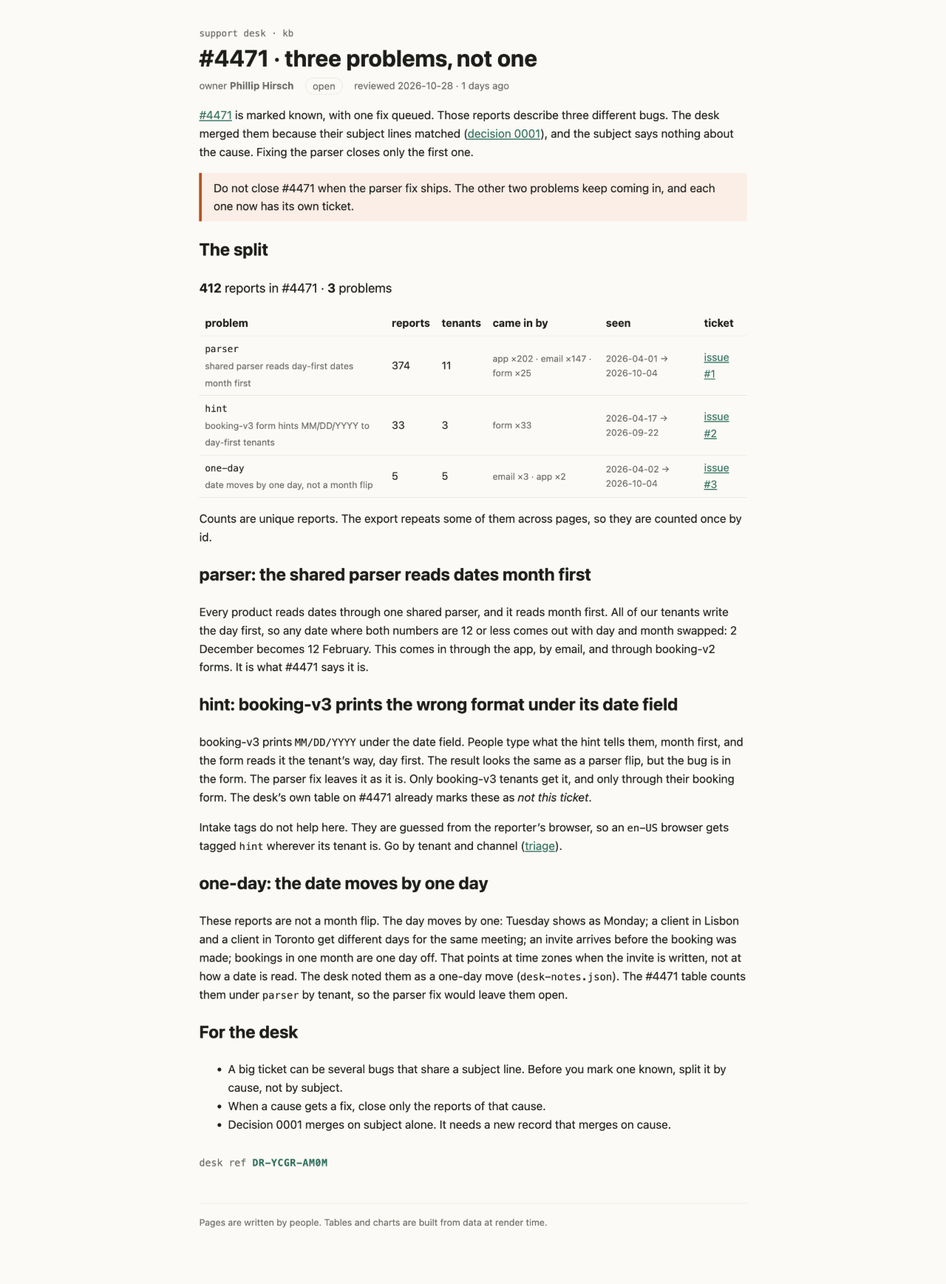
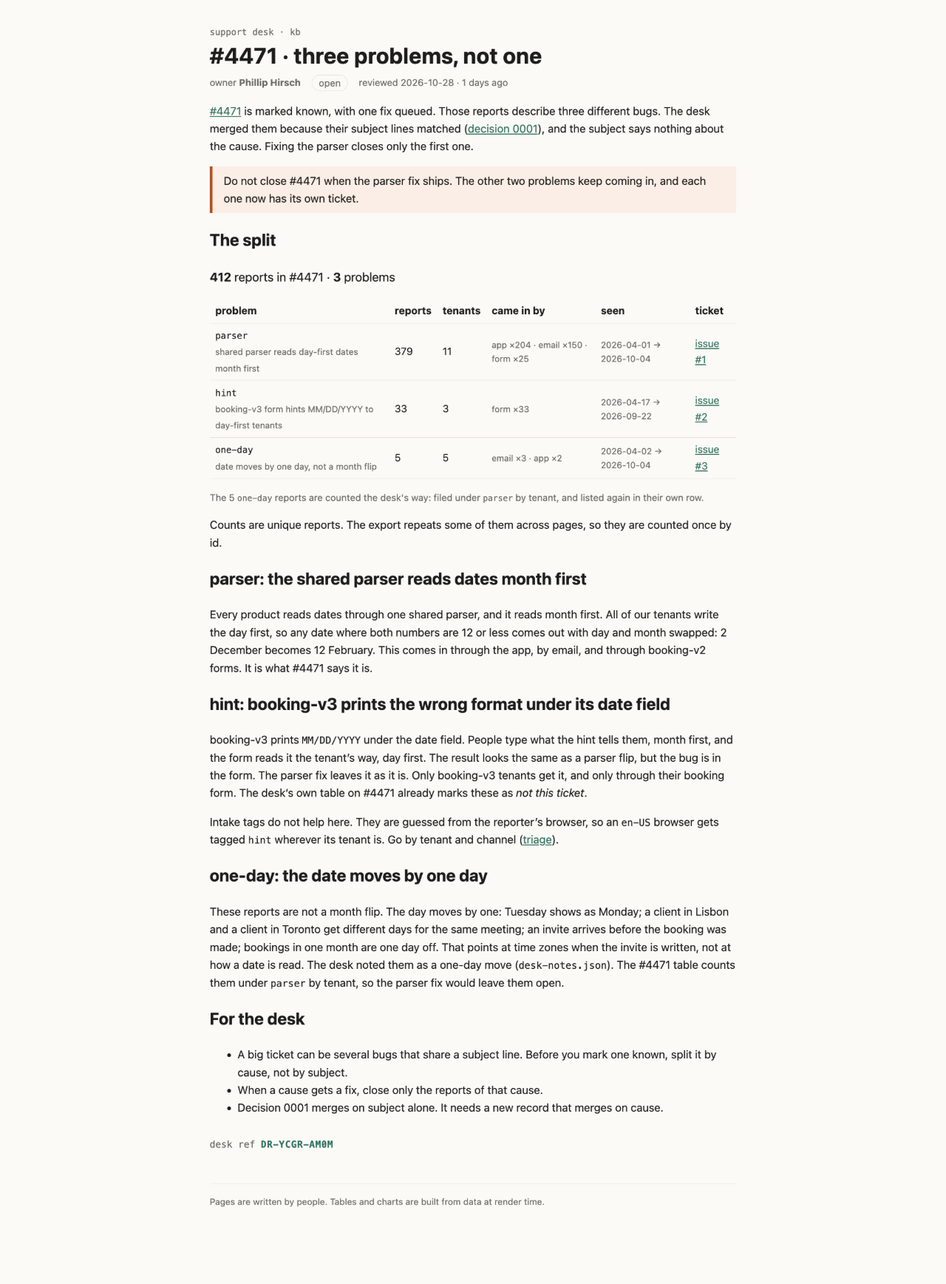
Count #4471 problems the desk's way: one-day reports stay filed under parser
Parser now shows 379 (as the desk's cause table files them), hint 33,
and the 5 one-day moves keep their own row and ticket.

diff --git a/build/_app/immutable/chunks/G0js2YUj.js b/build/_app/immutable/chunks/G0js2YUj.js
@@ -1,0 +1,19 @@
+import{t as e}from"./DK3Fl9T5.js";import{E as t,F as n,H as r,I as i,K as a,L as o,N as s,O as c,R as l,S as u,T as d,U as f,W as p,_ as m,c as h,h as g,k as _,n as v,q as y,r as b,t as x,w as S}from"./BCPXOG7W.js";import{t as C}from"./BTPwLomz.js";import{n as w,t as T}from"./CVBzP17p.js";import{i as E,l as D,r as O,t as k}from"./BIy4WKJS.js";var A={parser:`shared parser reads day-first dates month first`,hint:`booking-v3 form hints MM/DD/YYYY to day-first tenants`,"one-day":`date moves by one day, not a month flip`,unplaced:`no tenant on file, or tenant writes month first`};function j(e,t){let n=t.map(e=>e.receivedAt.slice(0,10)).sort();return{problem:e,reports:t,tenants:[...new Set(t.map(e=>e.tenant))].sort(),channels:t.reduce((e,t)=>({...e,[t.channel]:(e[t.channel]??0)+1}),{}),firstSeen:n[0],lastSeen:n[n.length-1]}}function M(e,t){return D(e).filter(e=>e.mergedInto===t)}function N(e,t,n,r){let i=M(e,t),a=new Map;for(let e of i){let t=E(e,n(e))??`unplaced`;a.set(t,[...a.get(t)??[],e])}let o=[...a.entries()].map(([e,t])=>j(e,t)),s=i.filter(e=>r.includes(e.id));return s.length&&o.push(j(`one-day`,s)),o.sort((e,t)=>t.reports.length-e.reports.length)}var P=t(`· <span class="warn svelte-1op6c6"> </span>`,1),F=t(`<a> </a>`),I=t(`<span class="warn svelte-1op6c6">none</span>`),L=t(`<tr><td><code> </code><br/><span class="label svelte-1op6c6"> </span></td><td> </td><td> </td><td class="small svelte-1op6c6"> </td><td class="small svelte-1op6c6"> </td><td><!></td></tr>`),R=t(`<p class="small svelte-1op6c6"> <code>one-day</code> reports are counted the desk's way: filed under <code> </code> by tenant, and listed again in their own row.</p>`),z=t(`<p class="sum svelte-1op6c6"><strong> </strong> <strong> </strong> problems <!></p> <table><thead><tr><th>problem</th><th>reports</th><th>tenants</th><th>came in by</th><th>seen</th><th>ticket</th></tr></thead><tbody></tbody></table> <!>`,1);function B(e,t){p(t,!0);let c=v(t,`tickets`,19,()=>({})),d=r(()=>N(w,t.ticket,O,T.oneDayMove)),b=r(()=>M(w,t.ticket).length),x=r(()=>_(d).find(e=>e.problem===`one-day`)),C=e=>_(d).filter(t=>t.problem!==`one-day`&&t.reports.some(t=>e.includes(t.id))).map(e=>e.problem).join(`, `),E=r(()=>_(d).find(e=>e.problem===`unplaced`)?.reports.length??0),D=e=>Object.entries(e).sort((e,t)=>t[1]-e[1]).map(([e,t])=>`${e} ×${t}`).join(` · `);var k=z(),j=i(k),B=n(j),V=o(B,!0),H=l(B),U=l(H),W=o(U,!0),G=l(U,2),K=e=>{var t=P(),n=l(i(t)),r=o(n);s(()=>u(r,`${_(E)??``} not placed`)),S(e,t)};m(G,e=>{_(E)&&e(K)}),y(j);var q=l(j,2),J=l(n(q));g(J,21,()=>_(d),e=>e.problem,(e,t)=>{var r=L(),i=n(r),a=n(i),d=o(a,!0),f=l(a,2),p=o(f,!0);y(i);var g=l(i),v=o(g,!0),b=l(g),x=o(b,!0),C=l(b),w=o(C,!0),T=l(C),E=o(T),O=l(T),k=n(O),j=e=>{var n=F(),r=o(n,!0);s(e=>{h(n,`href`,c()[_(t).problem]),u(r,e)},[()=>c()[_(t).problem]?.replace(/^.*\/issues\//,`issue #`)]),S(e,n)},M=e=>{var t=I();S(e,t)};m(k,e=>{c()[_(t).problem]?e(j):e(M,-1)}),y(O),y(r),s(e=>{u(d,_(t).problem),u(p,A[_(t).problem]),u(v,_(t).reports.length),u(x,_(t).tenants.length),u(w,e),u(E,`${_(t).firstSeen??``} → ${_(t).lastSeen??``}`)},[()=>D(_(t).channels)]),S(e,r)}),y(J),y(q);var Y=l(q,2),X=e=>{var t=R(),r=n(t),i=l(r,3),c=o(i,!0);a(),y(t),s(e=>{u(r,`The ${_(x).reports.length??``} `),u(c,e)},[()=>C(_(x).reports.map(e=>e.id))]),S(e,t)};m(Y,e=>{_(x)&&e(X)}),s(e=>{u(V,_(b)),u(H,` reports in #${t.ticket??``} · `),u(W,e)},[()=>_(d).filter(e=>e.problem!==`unplaced`).length]),S(e,k),f()}var V=`0123456789ABCDEFGHJKMNPQRSTVWXYZ`;function H(e,t){let n=t>>>0;for(let t=0;t<e.length;t++)n^=e.charCodeAt(t),n=Math.imul(n,16777619)>>>0;return n}function U(e){let t=e.trim(),n=H(t,2166136261),r=H(t,2654435769),i=BigInt(n)<<8n|BigInt(r&255),a=``;for(let e=0;e<8;e++)a=V[Number(i&31n)]+a,i>>=5n;return`DR-${a.slice(0,4)}-${a.slice(4)}`}var W=t(`<p class="stamp svelte-1280m42">desk ref <b class="svelte-1280m42"> </b></p>`),G=t(`<p class="stamp missing svelte-1280m42">no desk ref: this page isn't signed (no <code>signature</code> in its frontmatter)</p>`);function K(e,t){p(t,!0);let a=r(()=>t.signature?U(t.signature):null);var c=d(),h=i(c),g=e=>{var t=W(),r=l(n(t)),i=o(r,!0);y(t),s(()=>u(i,_(a))),S(e,t)},v=e=>{var t=G();S(e,t)};m(h,e=>{_(a)?e(g):e(v,-1)}),S(e,c),f()}var q=e({default:()=>$,metadata:()=>J}),J={layout:`runbook`,title:`#4471 · three problems, not one`,owner:`Phillip Hirsch`,status:`open`,reviewed:`2026-10-28T00:00:00.000Z`,signature:`Phillip Hirsch`,tickets:{parser:`https://github.com/phillip-hirsch/mega-s01e03-what-it-shows/issues/1`,hint:`https://github.com/phillip-hirsch/mega-s01e03-what-it-shows/issues/2`,"one-day":`https://github.com/phillip-hirsch/mega-s01e03-what-it-shows/issues/3`}},{layout:Y,title:X,owner:ee,status:te,reviewed:ne,signature:Z,tickets:Q}=J,re=t(`<p><a href="/kb/incidents/4471">#4471</a> is marked known, with one fix queued. Those reports describe three
+different bugs. The desk merged them because their subject lines matched
+(<a href="/kb/decisions/0001-dedupe-by-subject">decision 0001</a>), and the subject says nothing about the cause.
+Fixing the parser closes only the first one.</p> <!> <h2>The split</h2> <!> <p>Counts are unique reports. The export repeats some of them across pages, so they are counted once by id.</p> <h2>parser: the shared parser reads dates month first</h2> <p>Every product reads dates through one shared parser, and it reads month first. All of our tenants
+write the day first, so any date where both numbers are 12 or less comes out with day and month
+swapped: 2 December becomes 12 February. This comes in through the app, by email, and through
+booking-v2 forms. It is what #4471 says it is.</p> <h2>hint: booking-v3 prints the wrong format under its date field</h2> <p>booking-v3 prints <code>MM/DD/YYYY</code> under the date field. People type what the hint tells them, month
+first, and the form reads it the tenant’s way, day first. The result looks the same as a parser
+flip, but the bug is in the form. The parser fix leaves it as it is. Only booking-v3 tenants
+get it, and only through their booking form. The desk’s own table on #4471 already marks these
+as <em>not this ticket</em>.</p> <p>Intake tags do not help here. They are guessed from the reporter’s browser, so an <code>en-US</code> browser
+gets tagged <code>hint</code> wherever its tenant is. Go by tenant and channel (<a href="/kb/triage/dedupe">triage</a>).</p> <h2>one-day: the date moves by one day</h2> <p>These reports are not a month flip. The day moves by one: Tuesday shows as Monday; a client in
+Lisbon and a client in Toronto get different days for the same meeting; an invite arrives before
+the booking was made; bookings in one month are one day off. That points at time zones when the
+invite is written, not at how a date is read. The desk noted them as a one-day move
+(<code>desk-notes.json</code>). The #4471 table counts them under <code>parser</code> by tenant, so the parser fix
+would leave them open.</p> <h2>For the desk</h2> <ul><li>A big ticket can be several bugs that share a subject line. Before you mark one known, split it
+by cause, not by subject.</li> <li>When a cause gets a fix, close only the reports of that cause.</li> <li>Decision 0001 merges on subject alone. It needs a new record that merges on cause.</li></ul> <!>`,1);function $(e,t){let n=x(t,[`children`,`$$slots`,`$$events`,`$$legacy`]);C(e,b(()=>n,()=>J,{children:(e,t)=>{var n=re(),r=l(i(n),2);k(r,{kind:`warn`,children:(e,t)=>{a();var n=c(`Do not close #4471 when the parser fix ships. The other two problems keep coming in, and each
+one now has its own ticket.`);S(e,n)},$$slots:{default:!0}});var o=l(r,4);B(o,{ticket:4471,get tickets(){return Q}}),K(l(o,22),{get signature(){return Z}}),S(e,n)},$$slots:{default:!0}}))}export{$ as n,q as t};

diff --git a/build/kb/incidents/4471/split.html b/build/kb/incidents/4471/split.html
@@ -9,11 +9,11 @@
 		<link href="../../../_app/immutable/chunks/B2Ul7l_u.js" rel="modulepreload">
 		<link href="../../../_app/immutable/chunks/BCPXOG7W.js" rel="modulepreload">
 		<link href="../../../_app/immutable/chunks/Dh1V97Jm.js" rel="modulepreload">
-		<link href="../../../_app/immutable/entry/app.DJuajS4U.js" rel="modulepreload">
+		<link href="../../../_app/immutable/entry/app.CDCAZ6tS.js" rel="modulepreload">
 		<link href="../../../_app/immutable/nodes/0.C9KfiiPz.js" rel="modulepreload">
 		<link href="../../../_app/immutable/chunks/DK3Fl9T5.js" rel="modulepreload">
-		<link href="../../../_app/immutable/nodes/5.DDH9_3K4.js" rel="modulepreload">
-		<link href="../../../_app/immutable/chunks/yplmz71L.js" rel="modulepreload">
+		<link href="../../../_app/immutable/nodes/5.B7EKPqgE.js" rel="modulepreload">
+		<link href="../../../_app/immutable/chunks/G0js2YUj.js" rel="modulepreload">
 		<link href="../../../_app/immutable/chunks/BTPwLomz.js" rel="modulepreload">
 		<link href="../../../_app/immutable/chunks/CVBzP17p.js" rel="modulepreload">
 		<link href="../../../_app/immutable/chunks/BIy4WKJS.js" rel="modulepreload">
@@ -27,7 +27,7 @@
 different bugs. The desk merged them because their subject lines matched
 (<a href="/kb/decisions/0001-dedupe-by-subject">decision 0001</a>), and the subject says nothing about the cause.
 Fixing the parser closes only the first one.</p> <aside class="warn svelte-17bri61"><!---->Do not close #4471 when the parser fix ships. The other two problems keep coming in, and each
-one now has its own ticket.<!----></aside><!----> <h2>The split</h2> <p class="sum svelte-1op6c6"><strong>412</strong> reports in #4471 · <strong>3</strong> problems <!--[-1--><!--]--></p> <table><thead><tr><th>problem</th><th>reports</th><th>tenants</th><th>came in by</th><th>seen</th><th>ticket</th></tr></thead><tbody><!--[--><tr><td><code>parser</code><br/><span class="label svelte-1op6c6">shared parser reads day-first dates month first</span></td><td>374</td><td>11</td><td class="small svelte-1op6c6">app ×202 · email ×147 · form ×25</td><td class="small svelte-1op6c6">2026-04-01 → 2026-10-04</td><td><!--[0--><a href="https://github.com/phillip-hirsch/mega-s01e03-what-it-shows/issues/1">issue #1</a><!--]--></td></tr><tr><td><code>hint</code><br/><span class="label svelte-1op6c6">booking-v3 form hints MM/DD/YYYY to day-first tenants</span></td><td>33</td><td>3</td><td class="small svelte-1op6c6">form ×33</td><td class="small svelte-1op6c6">2026-04-17 → 2026-09-22</td><td><!--[0--><a href="https://github.com/phillip-hirsch/mega-s01e03-what-it-shows/issues/2">issue #2</a><!--]--></td></tr><tr><td><code>one-day</code><br/><span class="label svelte-1op6c6">date moves by one day, not a month flip</span></td><td>5</td><td>5</td><td class="small svelte-1op6c6">email ×3 · app ×2</td><td class="small svelte-1op6c6">2026-04-02 → 2026-10-04</td><td><!--[0--><a href="https://github.com/phillip-hirsch/mega-s01e03-what-it-shows/issues/3">issue #3</a><!--]--></td></tr><!--]--></tbody></table><!----> <p>Counts are unique reports. The export repeats some of them across pages, so they are counted once by id.</p> <h2>parser: the shared parser reads dates month first</h2> <p>Every product reads dates through one shared parser, and it reads month first. All of our tenants
+one now has its own ticket.<!----></aside><!----> <h2>The split</h2> <p class="sum svelte-1op6c6"><strong>412</strong> reports in #4471 · <strong>3</strong> problems <!--[-1--><!--]--></p> <table><thead><tr><th>problem</th><th>reports</th><th>tenants</th><th>came in by</th><th>seen</th><th>ticket</th></tr></thead><tbody><!--[--><tr><td><code>parser</code><br/><span class="label svelte-1op6c6">shared parser reads day-first dates month first</span></td><td>379</td><td>11</td><td class="small svelte-1op6c6">app ×204 · email ×150 · form ×25</td><td class="small svelte-1op6c6">2026-04-01 → 2026-10-04</td><td><!--[0--><a href="https://github.com/phillip-hirsch/mega-s01e03-what-it-shows/issues/1">issue #1</a><!--]--></td></tr><tr><td><code>hint</code><br/><span class="label svelte-1op6c6">booking-v3 form hints MM/DD/YYYY to day-first tenants</span></td><td>33</td><td>3</td><td class="small svelte-1op6c6">form ×33</td><td class="small svelte-1op6c6">2026-04-17 → 2026-09-22</td><td><!--[0--><a href="https://github.com/phillip-hirsch/mega-s01e03-what-it-shows/issues/2">issue #2</a><!--]--></td></tr><tr><td><code>one-day</code><br/><span class="label svelte-1op6c6">date moves by one day, not a month flip</span></td><td>5</td><td>5</td><td class="small svelte-1op6c6">email ×3 · app ×2</td><td class="small svelte-1op6c6">2026-04-02 → 2026-10-04</td><td><!--[0--><a href="https://github.com/phillip-hirsch/mega-s01e03-what-it-shows/issues/3">issue #3</a><!--]--></td></tr><!--]--></tbody></table> <!--[0--><p class="small svelte-1op6c6">The 5 <code>one-day</code> reports are counted the desk's way: filed under <code>parser</code> by tenant, and listed again in their own row.</p><!--]--><!----> <p>Counts are unique reports. The export repeats some of them across pages, so they are counted once by id.</p> <h2>parser: the shared parser reads dates month first</h2> <p>Every product reads dates through one shared parser, and it reads month first. All of our tenants
 write the day first, so any date where both numbers are 12 or less comes out with day and month
 swapped: 2 December becomes 12 February. This comes in through the app, by email, and through
 booking-v2 forms. It is what #4471 says it is.</p> <h2>hint: booking-v3 prints the wrong format under its date field</h2> <p>booking-v3 prints <code>MM/DD/YYYY</code> under the date field. People type what the hint tells them, month
@@ -45,16 +45,16 @@ by cause, not by subject.</li> <li>When a cause gets a fix, close only the repor
 			
 			<script>
 				{
-					__sveltekit_1feakgv = {
+					__sveltekit_1f6i3rt = {
 						base: new URL("../../..", location).pathname.slice(0, -1),
-						version: "1793240126656"
+						version: "1793240261210"
 					};
 
 					const element = document.currentScript.parentElement;
 
 					import("../../../_app/immutable/entry/start.CH5w6lId.js").then(async (kit) => {
-						kit.init(__sveltekit_1feakgv);
-						const app = await import("../../../_app/immutable/entry/app.DJuajS4U.js");
+						kit.init(__sveltekit_1f6i3rt);
+						const app = await import("../../../_app/immutable/entry/app.CDCAZ6tS.js");
 						kit.start(app, element, {
 							node_ids: [0, 5],
 							data: [null,null],

diff --git a/rendered/kb-incidents-4471-split.html b/rendered/kb-incidents-4471-split.html
@@ -9,11 +9,11 @@
 		<link href="../../../_app/immutable/chunks/B2Ul7l_u.js" rel="modulepreload">
 		<link href="../../../_app/immutable/chunks/BCPXOG7W.js" rel="modulepreload">
 		<link href="../../../_app/immutable/chunks/Dh1V97Jm.js" rel="modulepreload">
-		<link href="../../../_app/immutable/entry/app.DJuajS4U.js" rel="modulepreload">
+		<link href="../../../_app/immutable/entry/app.CDCAZ6tS.js" rel="modulepreload">
 		<link href="../../../_app/immutable/nodes/0.C9KfiiPz.js" rel="modulepreload">
 		<link href="../../../_app/immutable/chunks/DK3Fl9T5.js" rel="modulepreload">
-		<link href="../../../_app/immutable/nodes/5.DDH9_3K4.js" rel="modulepreload">
-		<link href="../../../_app/immutable/chunks/yplmz71L.js" rel="modulepreload">
+		<link href="../../../_app/immutable/nodes/5.B7EKPqgE.js" rel="modulepreload">
+		<link href="../../../_app/immutable/chunks/G0js2YUj.js" rel="modulepreload">
 		<link href="../../../_app/immutable/chunks/BTPwLomz.js" rel="modulepreload">
 		<link href="../../../_app/immutable/chunks/CVBzP17p.js" rel="modulepreload">
 		<link href="../../../_app/immutable/chunks/BIy4WKJS.js" rel="modulepreload">
@@ -27,7 +27,7 @@
 different bugs. The desk merged them because their subject lines matched
 (<a href="/kb/decisions/0001-dedupe-by-subject">decision 0001</a>), and the subject says nothing about the cause.
 Fixing the parser closes only the first one.</p> <aside class="warn svelte-17bri61"><!---->Do not close #4471 when the parser fix ships. The other two problems keep coming in, and each
-one now has its own ticket.<!----></aside><!----> <h2>The split</h2> <p class="sum svelte-1op6c6"><strong>412</strong> reports in #4471 · <strong>3</strong> problems <!--[-1--><!--]--></p> <table><thead><tr><th>problem</th><th>reports</th><th>tenants</th><th>came in by</th><th>seen</th><th>ticket</th></tr></thead><tbody><!--[--><tr><td><code>parser</code><br/><span class="label svelte-1op6c6">shared parser reads day-first dates month first</span></td><td>374</td><td>11</td><td class="small svelte-1op6c6">app ×202 · email ×147 · form ×25</td><td class="small svelte-1op6c6">2026-04-01 → 2026-10-04</td><td><!--[0--><a href="https://github.com/phillip-hirsch/mega-s01e03-what-it-shows/issues/1">issue #1</a><!--]--></td></tr><tr><td><code>hint</code><br/><span class="label svelte-1op6c6">booking-v3 form hints MM/DD/YYYY to day-first tenants</span></td><td>33</td><td>3</td><td class="small svelte-1op6c6">form ×33</td><td class="small svelte-1op6c6">2026-04-17 → 2026-09-22</td><td><!--[0--><a href="https://github.com/phillip-hirsch/mega-s01e03-what-it-shows/issues/2">issue #2</a><!--]--></td></tr><tr><td><code>one-day</code><br/><span class="label svelte-1op6c6">date moves by one day, not a month flip</span></td><td>5</td><td>5</td><td class="small svelte-1op6c6">email ×3 · app ×2</td><td class="small svelte-1op6c6">2026-04-02 → 2026-10-04</td><td><!--[0--><a href="https://github.com/phillip-hirsch/mega-s01e03-what-it-shows/issues/3">issue #3</a><!--]--></td></tr><!--]--></tbody></table><!----> <p>Counts are unique reports. The export repeats some of them across pages, so they are counted once by id.</p> <h2>parser: the shared parser reads dates month first</h2> <p>Every product reads dates through one shared parser, and it reads month first. All of our tenants
+one now has its own ticket.<!----></aside><!----> <h2>The split</h2> <p class="sum svelte-1op6c6"><strong>412</strong> reports in #4471 · <strong>3</strong> problems <!--[-1--><!--]--></p> <table><thead><tr><th>problem</th><th>reports</th><th>tenants</th><th>came in by</th><th>seen</th><th>ticket</th></tr></thead><tbody><!--[--><tr><td><code>parser</code><br/><span class="label svelte-1op6c6">shared parser reads day-first dates month first</span></td><td>379</td><td>11</td><td class="small svelte-1op6c6">app ×204 · email ×150 · form ×25</td><td class="small svelte-1op6c6">2026-04-01 → 2026-10-04</td><td><!--[0--><a href="https://github.com/phillip-hirsch/mega-s01e03-what-it-shows/issues/1">issue #1</a><!--]--></td></tr><tr><td><code>hint</code><br/><span class="label svelte-1op6c6">booking-v3 form hints MM/DD/YYYY to day-first tenants</span></td><td>33</td><td>3</td><td class="small svelte-1op6c6">form ×33</td><td class="small svelte-1op6c6">2026-04-17 → 2026-09-22</td><td><!--[0--><a href="https://github.com/phillip-hirsch/mega-s01e03-what-it-shows/issues/2">issue #2</a><!--]--></td></tr><tr><td><code>one-day</code><br/><span class="label svelte-1op6c6">date moves by one day, not a month flip</span></td><td>5</td><td>5</td><td class="small svelte-1op6c6">email ×3 · app ×2</td><td class="small svelte-1op6c6">2026-04-02 → 2026-10-04</td><td><!--[0--><a href="https://github.com/phillip-hirsch/mega-s01e03-what-it-shows/issues/3">issue #3</a><!--]--></td></tr><!--]--></tbody></table> <!--[0--><p class="small svelte-1op6c6">The 5 <code>one-day</code> reports are counted the desk's way: filed under <code>parser</code> by tenant, and listed again in their own row.</p><!--]--><!----> <p>Counts are unique reports. The export repeats some of them across pages, so they are counted once by id.</p> <h2>parser: the shared parser reads dates month first</h2> <p>Every product reads dates through one shared parser, and it reads month first. All of our tenants
 write the day first, so any date where both numbers are 12 or less comes out with day and month
 swapped: 2 December becomes 12 February. This comes in through the app, by email, and through
 booking-v2 forms. It is what #4471 says it is.</p> <h2>hint: booking-v3 prints the wrong format under its date field</h2> <p>booking-v3 prints <code>MM/DD/YYYY</code> under the date field. People type what the hint tells them, month
@@ -45,16 +45,16 @@ by cause, not by subject.</li> <li>When a cause gets a fix, close only the repor
 			
 			<script>
 				{
-					__sveltekit_1feakgv = {
+					__sveltekit_1f6i3rt = {
 						base: new URL("../../..", location).pathname.slice(0, -1),
-						version: "1793240126656"
+						version: "1793240261210"
 					};
 
 					const element = document.currentScript.parentElement;
 
 					import("../../../_app/immutable/entry/start.CH5w6lId.js").then(async (kit) => {
-						kit.init(__sveltekit_1feakgv);
-						const app = await import("../../../_app/immutable/entry/app.DJuajS4U.js");
+						kit.init(__sveltekit_1f6i3rt);
+						const app = await import("../../../_app/immutable/entry/app.CDCAZ6tS.js");
 						kit.start(app, element, {
 							node_ids: [0, 5],
 							data: [null,null],

diff --git a/src/lib/kb/problems.ts b/src/lib/kb/problems.ts
@@ -1,5 +1,6 @@
-// The problems inside one big ticket. causes.ts says which bug a date flip comes from; the desk's
-// own notes (desk-notes.json) mark the reports that are not a flip at all but a one-day move.
+// The problems inside one big ticket, counted the desk's way. causes.ts files every report under
+// its cause by tenant; the desk's own notes (desk-notes.json) mark the reports that are not a flip
+// at all but a one-day move. Those stay counted where they're filed and also get their own row.
 import { causeOf, uniqueById, type Report, type Tenant } from '#lib/kb/causes';
 
 export type Problem = 'parser' | 'hint' | 'one-day' | 'unplaced';
@@ -11,11 +12,6 @@ export const PROBLEM_LABEL: Record<Problem, string> = {
   unplaced: 'no tenant on file, or tenant writes month first',
 };
 
-export function problemOf(r: Report, t: Tenant | undefined, oneDayMove: readonly string[]): Problem {
-  if (oneDayMove.includes(r.id)) return 'one-day';
-  return causeOf(r, t) ?? 'unplaced';
-}
-
 export type ProblemGroup = {
   problem: Problem;
   reports: Report[];
@@ -25,29 +21,36 @@ export type ProblemGroup = {
   lastSeen: string;
 };
 
+function group(problem: Problem, reports: Report[]): ProblemGroup {
+  const days = reports.map((r) => r.receivedAt.slice(0, 10)).sort();
+  return {
+    problem,
+    reports,
+    tenants: [...new Set(reports.map((r) => r.tenant))].sort(),
+    channels: reports.reduce<Record<string, number>>((n, r) => ({ ...n, [r.channel]: (n[r.channel] ?? 0) + 1 }), {}),
+    firstSeen: days[0],
+    lastSeen: days[days.length - 1],
+  };
+}
+
+export function mergedInto(all: Report[], ticket: number): Report[] {
+  return uniqueById(all).filter((r) => r.mergedInto === ticket);
+}
+
 export function splitTicket(
   all: Report[],
   ticket: number,
   tenantOf: (r: Report) => Tenant | undefined,
   oneDayMove: readonly string[],
 ): ProblemGroup[] {
-  const groups = new Map<Problem, Report[]>();
-  for (const r of uniqueById(all)) {
-    if (r.mergedInto !== ticket) continue;
-    const p = problemOf(r, tenantOf(r), oneDayMove);
-    groups.set(p, [...(groups.get(p) ?? []), r]);
+  const merged = mergedInto(all, ticket);
+  const byCause = new Map<Problem, Report[]>();
+  for (const r of merged) {
+    const cause = causeOf(r, tenantOf(r)) ?? 'unplaced';
+    byCause.set(cause, [...(byCause.get(cause) ?? []), r]);
   }
-  return [...groups.entries()]
-    .map(([problem, reports]) => {
-      const days = reports.map((r) => r.receivedAt.slice(0, 10)).sort();
-      return {
-        problem,
-        reports,
-        tenants: [...new Set(reports.map((r) => r.tenant))].sort(),
-        channels: reports.reduce<Record<string, number>>((n, r) => ({ ...n, [r.channel]: (n[r.channel] ?? 0) + 1 }), {}),
-        firstSeen: days[0],
-        lastSeen: days[days.length - 1],
-      };
-    })
-    .sort((a, b) => b.reports.length - a.reports.length);
+  const groups = [...byCause.entries()].map(([p, rs]) => group(p, rs));
+  const oneDay = merged.filter((r) => oneDayMove.includes(r.id));
+  if (oneDay.length) groups.push(group('one-day', oneDay));
+  return groups.sort((a, b) => b.reports.length - a.reports.length);
 }

diff --git a/build/_app/immutable/nodes/2.Bu59-hPF.js b/build/_app/immutable/nodes/2.Bu59-hPF.js
@@ -1,0 +1,2 @@
+import{E as e,F as t,I as n,K as r,L as i,N as a,R as o,S as s,U as c,W as l,c as u,d,h as f,i as p,k as m,q as h,r as g,t as _,w as v}from"../chunks/BCPXOG7W.js";import{n as y,r as b,t as x}from"../chunks/BTPwLomz.js";import{t as S}from"../chunks/YX22L_Ud.js";import{t as C}from"../chunks/CgeRC4yK.js";import{t as w}from"../chunks/G0js2YUj.js";import{t as T}from"../chunks/BGqJVSDw.js";var E=e(`<tr><td><a> </a></td><td> </td><td> </td><td> </td></tr>`),D=e(`<table><thead><tr><th>page</th><th>owner</th><th>status</th><th>reviewed</th></tr></thead><tbody></tbody></table>`);function O(e,n){l(n,!1);let r=Object.entries(Object.assign({"/src/routes/kb/decisions/0001-dedupe-by-subject/+page.svx":S,"/src/routes/kb/incidents/4471/+page.svx":C,"/src/routes/kb/incidents/4471/split/+page.svx":w,"/src/routes/kb/triage/dedupe/+page.svx":T})).map(([e,t])=>({href:e.replace(`/src/routes`,``).replace(`/+page.svx`,``),...t.metadata})).sort((e,t)=>e.href.localeCompare(t.href));p();var g=D(),_=o(t(g));f(_,5,()=>r,e=>e.href,(e,n)=>{var r=E(),c=t(r),l=t(c),f=i(l,!0);h(c);var p=o(c),g=i(p,!0),_=o(p),x=i(_,!0),S=o(_);let C;var w=i(S,!0);h(r),a((e,t)=>{u(l,`href`,m(n).href),s(f,m(n).title),s(g,m(n).owner),s(x,m(n).status),C=d(S,1,`svelte-tbc1ha`,null,C,{stale:e}),s(w,t)},[()=>y(m(n).reviewed)>180,()=>b(m(n).reviewed)]),v(e,r)}),h(_),h(g),v(e,g),c()}var k={layout:`runbook`,title:`Support knowledge base`,owner:`support desk`,status:`living`,reviewed:`2026-09-28T00:00:00.000Z`},{layout:A,title:j,owner:M,status:N,reviewed:P}=k,F=e(`<p>What the support desk knows, kept next to the code that knows it. One desk, every product: <code>sched-prod</code> (calendar invites for about 300k people) and the rest. When something breaks, the reports land here first.</p> <p>Start with <a href="/kb/triage/dedupe">triage</a> if you are new on the desk.</p> <h2>Pages</h2> <!> <h2>Writing a page</h2> <p>Keep the words here and the logic in <code>src/lib</code>. A number that can be computed should be
+computed by a component, not typed into a paragraph.</p>`,1);function I(e,t){let i=_(t,[`children`,`$$slots`,`$$events`,`$$legacy`]);x(e,g(()=>i,()=>k,{children:(e,t)=>{var i=F();O(o(n(i),6),{}),r(4),v(e,i)},$$slots:{default:!0}}))}export{I as component};

diff --git a/build/kb.html b/build/kb.html
@@ -9,16 +9,16 @@
 		<link href="./_app/immutable/chunks/B2Ul7l_u.js" rel="modulepreload">
 		<link href="./_app/immutable/chunks/BCPXOG7W.js" rel="modulepreload">
 		<link href="./_app/immutable/chunks/Dh1V97Jm.js" rel="modulepreload">
-		<link href="./_app/immutable/entry/app.DJuajS4U.js" rel="modulepreload">
+		<link href="./_app/immutable/entry/app.CDCAZ6tS.js" rel="modulepreload">
 		<link href="./_app/immutable/nodes/0.C9KfiiPz.js" rel="modulepreload">
 		<link href="./_app/immutable/chunks/DK3Fl9T5.js" rel="modulepreload">
-		<link href="./_app/immutable/nodes/2.Daq-6ia-.js" rel="modulepreload">
+		<link href="./_app/immutable/nodes/2.Bu59-hPF.js" rel="modulepreload">
 		<link href="./_app/immutable/chunks/BTPwLomz.js" rel="modulepreload">
 		<link href="./_app/immutable/chunks/YX22L_Ud.js" rel="modulepreload">
 		<link href="./_app/immutable/chunks/CgeRC4yK.js" rel="modulepreload">
 		<link href="./_app/immutable/chunks/CVBzP17p.js" rel="modulepreload">
 		<link href="./_app/immutable/chunks/BIy4WKJS.js" rel="modulepreload">
-		<link href="./_app/immutable/chunks/yplmz71L.js" rel="modulepreload">
+		<link href="./_app/immutable/chunks/G0js2YUj.js" rel="modulepreload">
 		<link href="./_app/immutable/chunks/BGqJVSDw.js" rel="modulepreload">
 		<!--e2jw2j--><!----><title>Support knowledge base · support kb</title>
 		<link href="./_app/immutable/assets/runbook.COyw0cbZ.css" rel="stylesheet">
@@ -34,16 +34,16 @@ computed by a component, not typed into a paragraph.</p><!----></main> <footer c
 			
 			<script>
 				{
-					__sveltekit_1feakgv = {
+					__sveltekit_1f6i3rt = {
 						base: new URL(".", location).pathname.slice(0, -1),
-						version: "1793240126656"
+						version: "1793240261210"
 					};
 
 					const element = document.currentScript.parentElement;
 
 					import("./_app/immutable/entry/start.CH5w6lId.js").then(async (kit) => {
-						kit.init(__sveltekit_1feakgv);
-						const app = await import("./_app/immutable/entry/app.DJuajS4U.js");
+						kit.init(__sveltekit_1f6i3rt);
+						const app = await import("./_app/immutable/entry/app.CDCAZ6tS.js");
 						kit.start(app, element, {
 							node_ids: [0, 2],
 							data: [null,null],

diff --git a/build/_app/immutable/entry/app.CDCAZ6tS.js b/build/_app/immutable/entry/app.CDCAZ6tS.js
@@ -1,0 +1,2 @@
+const __vite__mapDeps=(i,m=__vite__mapDeps,d=(m.f||(m.f=["../nodes/0.C9KfiiPz.js","../chunks/DK3Fl9T5.js","../chunks/BCPXOG7W.js","../nodes/1.mOwa9YdW.js","../chunks/Dh1V97Jm.js","./payload.DSmR2FwN.js","../nodes/2.Bu59-hPF.js","../chunks/BTPwLomz.js","../assets/runbook.COyw0cbZ.css","../chunks/YX22L_Ud.js","../chunks/CgeRC4yK.js","../chunks/CVBzP17p.js","../chunks/BIy4WKJS.js","../assets/Callout.AbLv9dM_.css","../assets/_page.D56XP2ro.css","../chunks/G0js2YUj.js","../assets/_page.Bvt1unkN.css","../chunks/BGqJVSDw.js","../assets/_page.DO6Yid7X.css","../assets/2.Bt0MwIZg.css","../nodes/3.DRxPfvn3.js","../nodes/4.rt2PfD_4.js","../nodes/5.B7EKPqgE.js","../nodes/6.sFtxrtyV.js"])))=>i.map(i=>d[i]);
+import{t as e}from"../chunks/CRzLMJPS.js";var t={},n=[()=>e(()=>import(`../nodes/0.C9KfiiPz.js`),__vite__mapDeps([0,1,2]),import.meta.url),()=>e(()=>import(`../nodes/1.mOwa9YdW.js`),__vite__mapDeps([3,2,4,5]),import.meta.url),()=>e(()=>import(`../nodes/2.Bu59-hPF.js`),__vite__mapDeps([6,2,7,8,9,1,10,11,12,13,14,15,16,17,18,19]),import.meta.url),()=>e(()=>import(`../nodes/3.DRxPfvn3.js`),__vite__mapDeps([20,9,1,2,7,8]),import.meta.url),()=>e(()=>import(`../nodes/4.rt2PfD_4.js`),__vite__mapDeps([21,10,1,2,7,8,11,12,13,14]),import.meta.url),()=>e(()=>import(`../nodes/5.B7EKPqgE.js`),__vite__mapDeps([22,15,1,2,7,8,11,12,13,16]),import.meta.url),()=>e(()=>import(`../nodes/6.sFtxrtyV.js`),__vite__mapDeps([23,17,1,2,7,8,12,13,18]),import.meta.url)],r=[],i={"/kb":[2],"/kb/decisions/0001-dedupe-by-subject":[3],"/kb/incidents/4471":[4],"/kb/incidents/4471/split":[5],"/kb/triage/dedupe":[6]},a={handleError:(({kind:e,error:t})=>{e===`unknown`&&console.error(t)}),reroute:(()=>{}),transport:{}},o=Object.fromEntries(Object.entries(a.transport).map(([e,t])=>[e,t.decode])),s=Object.fromEntries(Object.entries(a.transport).map(([e,t])=>[e,t.encode])),c=!1,l=(e,t)=>o[e](t),u=()=>e(()=>import(`../chunks/Bjy-W4x2.js`).then(e=>e.default),[],import.meta.url);export{l as decode,o as decoders,i as dictionary,s as encoders,u as get_error_template,c as hash,a as hooks,t as matchers,n as nodes,r as server_loads};

diff --git a/src/lib/kb/ProblemTable.svelte b/src/lib/kb/ProblemTable.svelte
@@ -3,12 +3,15 @@
   import notes from '#lib/data/desk-notes.json';
   import { type Report } from '#lib/kb/causes';
   import { tenantOf } from '#lib/kb/locales';
-  import { PROBLEM_LABEL, splitTicket, type Problem } from '#lib/kb/problems.ts';
+  import { mergedInto, PROBLEM_LABEL, splitTicket, type Problem } from '#lib/kb/problems.ts';
 
   let { ticket, tickets = {} }: { ticket: number; tickets?: Partial<Record<Problem, string>> } = $props();
 
   const groups = $derived(splitTicket(reports as Report[], ticket, tenantOf, notes.oneDayMove));
-  const total = $derived(groups.reduce((n, g) => n + g.reports.length, 0));
+  const total = $derived(mergedInto(reports as Report[], ticket).length);
+  const oneDay = $derived(groups.find((g) => g.problem === 'one-day'));
+  const filedAs = (ids: string[]) =>
+    groups.filter((g) => g.problem !== 'one-day' && g.reports.some((r) => ids.includes(r.id))).map((g) => g.problem).join(', ');
   const unplaced = $derived(groups.find((g) => g.problem === 'unplaced')?.reports.length ?? 0);
   const channels = (c: Record<string, number>) =>
     Object.entries(c)
@@ -40,6 +43,13 @@
     {/each}
   </tbody>
 </table>
+
+{#if oneDay}
+  <p class="small">
+    The {oneDay.reports.length} <code>one-day</code> reports are counted the desk's way: filed under
+    <code>{filedAs(oneDay.reports.map((r) => r.id))}</code> by tenant, and listed again in their own row.
+  </p>
+{/if}
 
 <style>
   .sum { font-size: 1.1rem; }

diff --git a/build/kb/decisions/0001-dedupe-by-subject.html b/build/kb/decisions/0001-dedupe-by-subject.html
@@ -9,7 +9,7 @@
 		<link href="../../_app/immutable/chunks/B2Ul7l_u.js" rel="modulepreload">
 		<link href="../../_app/immutable/chunks/BCPXOG7W.js" rel="modulepreload">
 		<link href="../../_app/immutable/chunks/Dh1V97Jm.js" rel="modulepreload">
-		<link href="../../_app/immutable/entry/app.DJuajS4U.js" rel="modulepreload">
+		<link href="../../_app/immutable/entry/app.CDCAZ6tS.js" rel="modulepreload">
 		<link href="../../_app/immutable/nodes/0.C9KfiiPz.js" rel="modulepreload">
 		<link href="../../_app/immutable/chunks/DK3Fl9T5.js" rel="modulepreload">
 		<link href="../../_app/immutable/nodes/3.DRxPfvn3.js" rel="modulepreload">
@@ -26,16 +26,16 @@ engineering merges them later.</li></ul><!----></main> <footer class="svelte-e2j
 			
 			<script>
 				{
-					__sveltekit_1feakgv = {
+					__sveltekit_1f6i3rt = {
 						base: new URL("../..", location).pathname.slice(0, -1),
-						version: "1793240126656"
+						version: "1793240261210"
 					};
 
 					const element = document.currentScript.parentElement;
 
 					import("../../_app/immutable/entry/start.CH5w6lId.js").then(async (kit) => {
-						kit.init(__sveltekit_1feakgv);
-						const app = await import("../../_app/immutable/entry/app.DJuajS4U.js");
+						kit.init(__sveltekit_1f6i3rt);
+						const app = await import("../../_app/immutable/entry/app.CDCAZ6tS.js");
 						kit.start(app, element, {
 							node_ids: [0, 3],
 							data: [null,null],

diff --git a/build/kb/incidents/4471.html b/build/kb/incidents/4471.html
@@ -9,7 +9,7 @@
 		<link href="../../_app/immutable/chunks/B2Ul7l_u.js" rel="modulepreload">
 		<link href="../../_app/immutable/chunks/BCPXOG7W.js" rel="modulepreload">
 		<link href="../../_app/immutable/chunks/Dh1V97Jm.js" rel="modulepreload">
-		<link href="../../_app/immutable/entry/app.DJuajS4U.js" rel="modulepreload">
+		<link href="../../_app/immutable/entry/app.CDCAZ6tS.js" rel="modulepreload">
 		<link href="../../_app/immutable/nodes/0.C9KfiiPz.js" rel="modulepreload">
 		<link href="../../_app/immutable/chunks/DK3Fl9T5.js" rel="modulepreload">
 		<link href="../../_app/immutable/nodes/4.rt2PfD_4.js" rel="modulepreload">
@@ -29,16 +29,16 @@ first. The fix is queued.</p> <aside class="note svelte-17bri61"><!---->Known. O
 			
 			<script>
 				{
-					__sveltekit_1feakgv = {
+					__sveltekit_1f6i3rt = {
 						base: new URL("../..", location).pathname.slice(0, -1),
-						version: "1793240126656"
+						version: "1793240261210"
 					};
 
 					const element = document.currentScript.parentElement;
 
 					import("../../_app/immutable/entry/start.CH5w6lId.js").then(async (kit) => {
-						kit.init(__sveltekit_1feakgv);
-						const app = await import("../../_app/immutable/entry/app.DJuajS4U.js");
+						kit.init(__sveltekit_1f6i3rt);
+						const app = await import("../../_app/immutable/entry/app.CDCAZ6tS.js");
 						kit.start(app, element, {
 							node_ids: [0, 4],
 							data: [null,null],

diff --git a/build/kb/triage/dedupe.html b/build/kb/triage/dedupe.html
@@ -9,7 +9,7 @@
 		<link href="../../_app/immutable/chunks/B2Ul7l_u.js" rel="modulepreload">
 		<link href="../../_app/immutable/chunks/BCPXOG7W.js" rel="modulepreload">
 		<link href="../../_app/immutable/chunks/Dh1V97Jm.js" rel="modulepreload">
-		<link href="../../_app/immutable/entry/app.DJuajS4U.js" rel="modulepreload">
+		<link href="../../_app/immutable/entry/app.CDCAZ6tS.js" rel="modulepreload">
 		<link href="../../_app/immutable/nodes/0.C9KfiiPz.js" rel="modulepreload">
 		<link href="../../_app/immutable/chunks/DK3Fl9T5.js" rel="modulepreload">
 		<link href="../../_app/immutable/nodes/6.sFtxrtyV.js" rel="modulepreload">
@@ -29,16 +29,16 @@ anything else.<!----></aside><!----> <h2>Try it</h2> <div class="try svelte-gq0h
 			
 			<script>
 				{
-					__sveltekit_1feakgv = {
+					__sveltekit_1f6i3rt = {
 						base: new URL("../..", location).pathname.slice(0, -1),
-						version: "1793240126656"
+						version: "1793240261210"
 					};
 
 					const element = document.currentScript.parentElement;
 
 					import("../../_app/immutable/entry/start.CH5w6lId.js").then(async (kit) => {
-						kit.init(__sveltekit_1feakgv);
-						const app = await import("../../_app/immutable/entry/app.DJuajS4U.js");
+						kit.init(__sveltekit_1f6i3rt);
+						const app = await import("../../_app/immutable/entry/app.CDCAZ6tS.js");
 						kit.start(app, element, {
 							node_ids: [0, 6],
 							data: [null,null],

diff --git a/build/_app/immutable/nodes/5.B7EKPqgE.js b/build/_app/immutable/nodes/5.B7EKPqgE.js
@@ -1,0 +1,1 @@
+export{n as component}from"../chunks/G0js2YUj.js";
